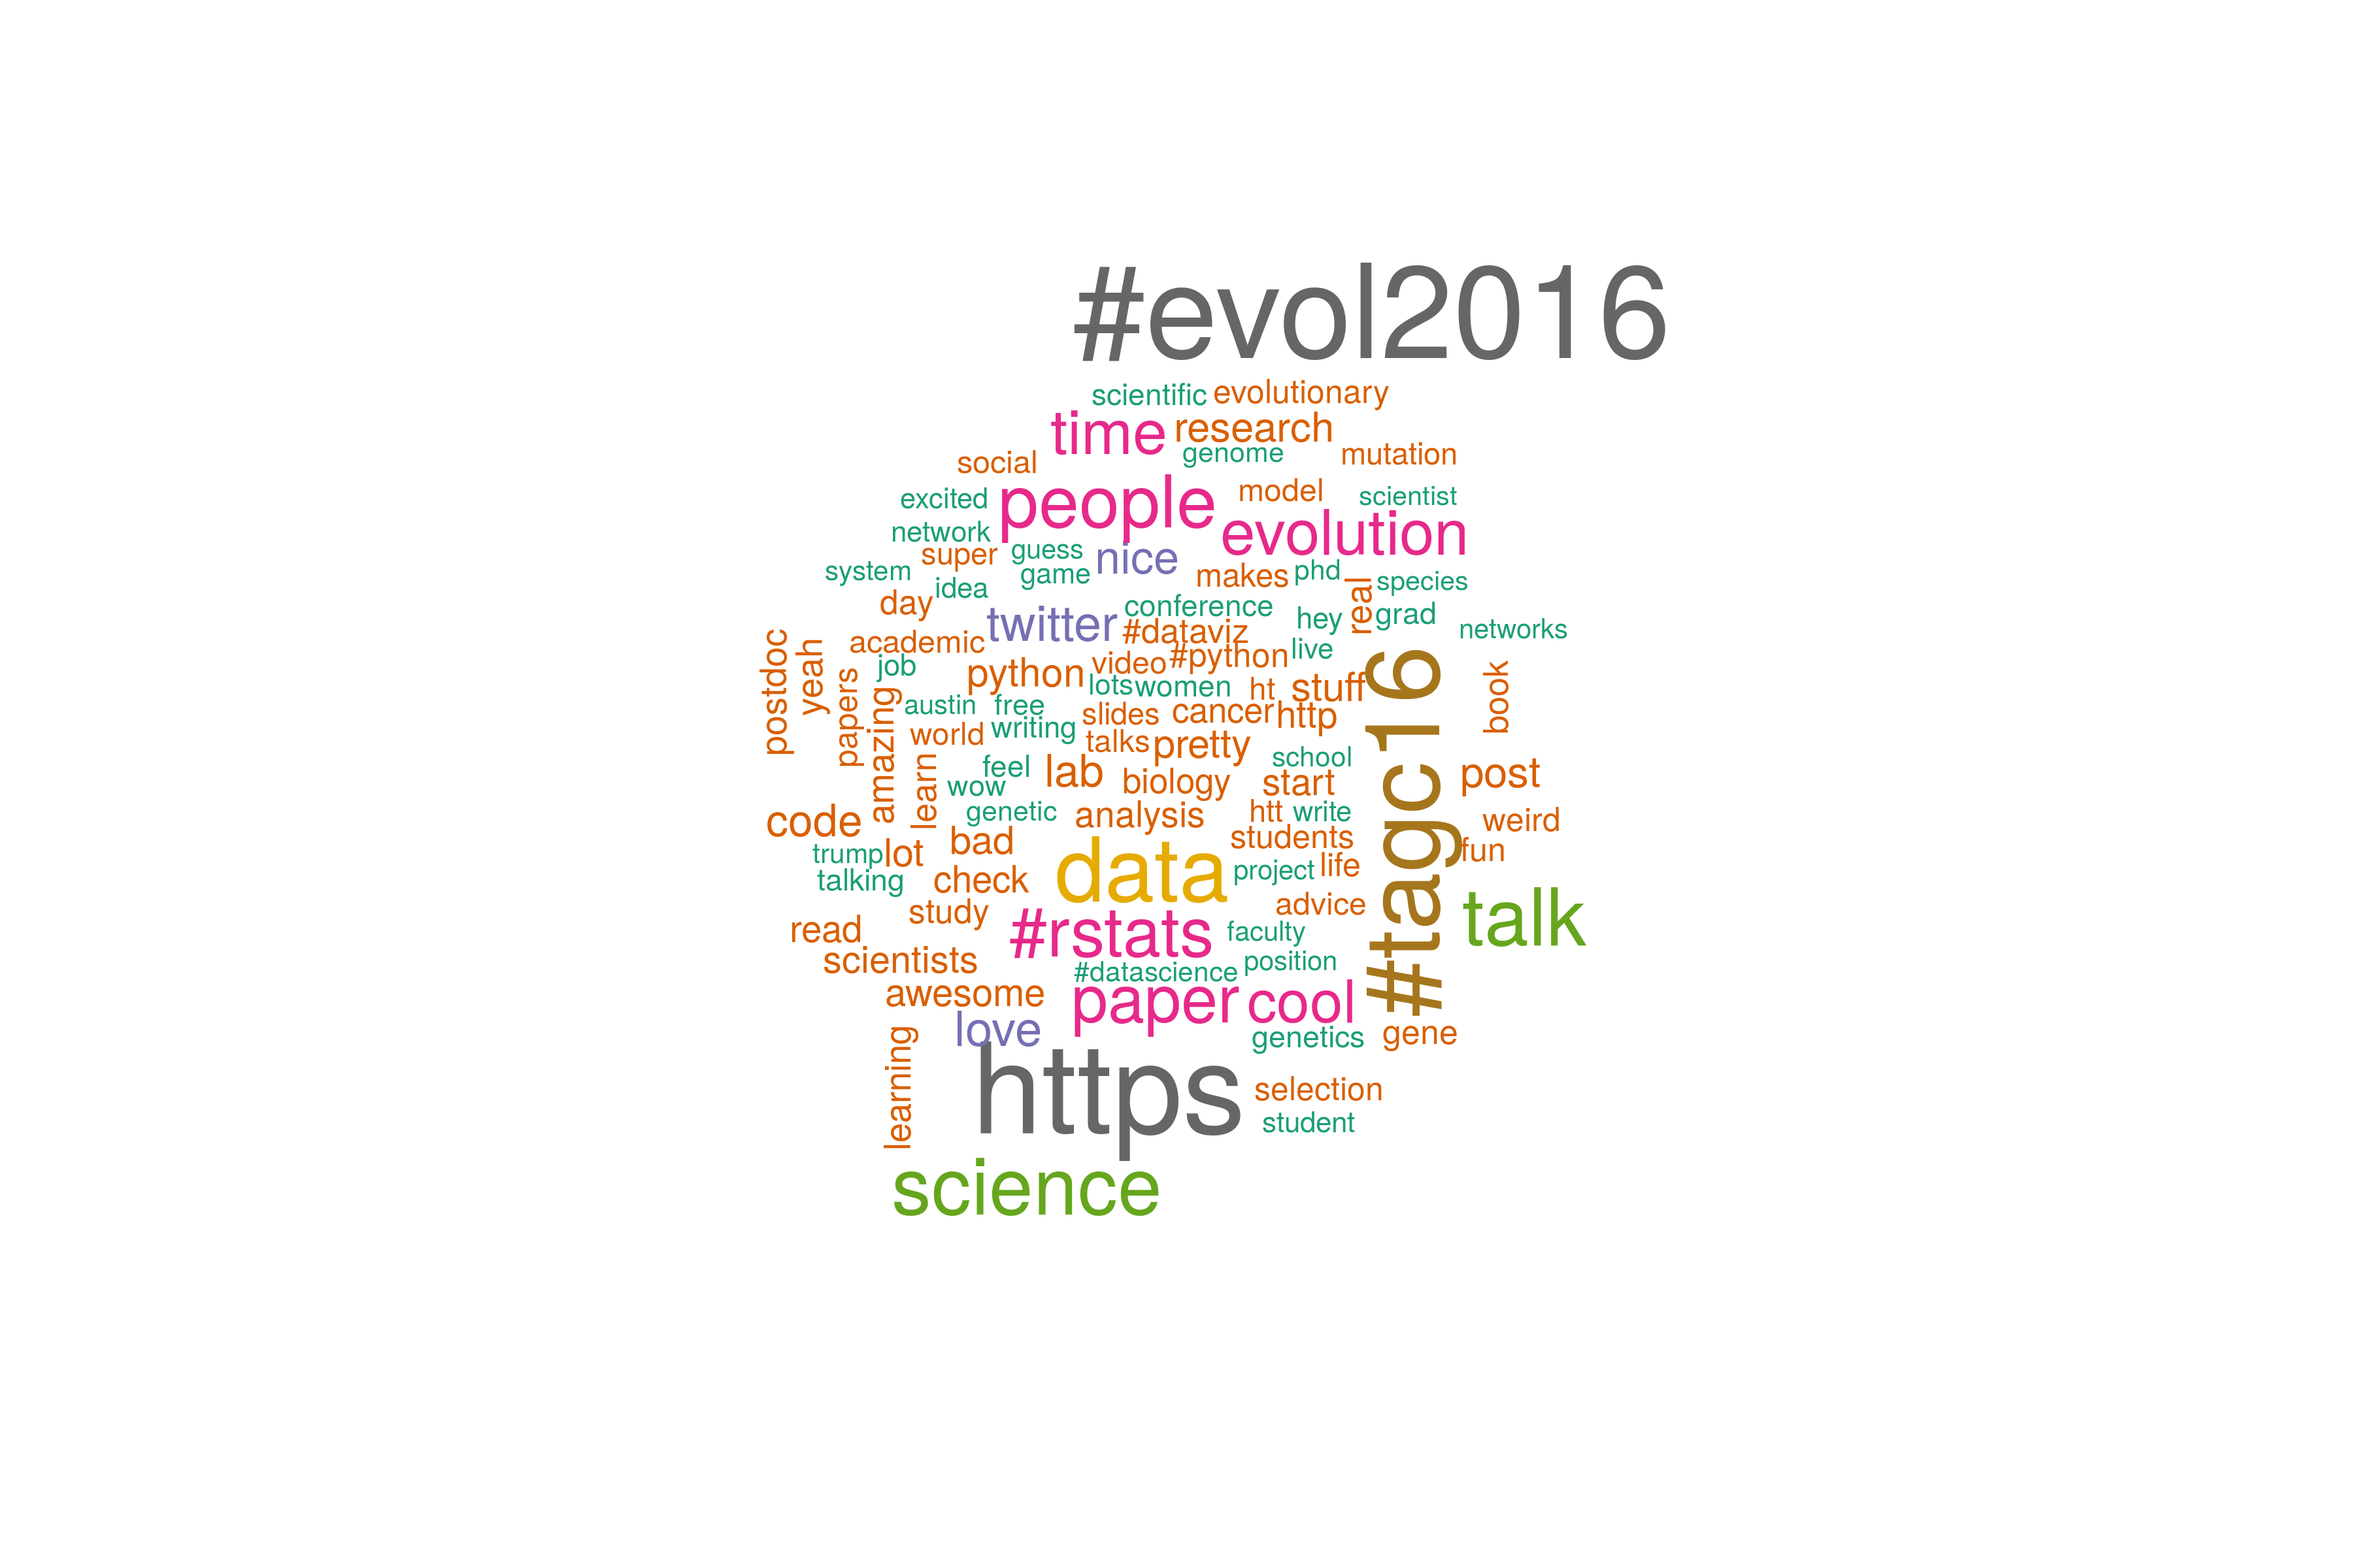
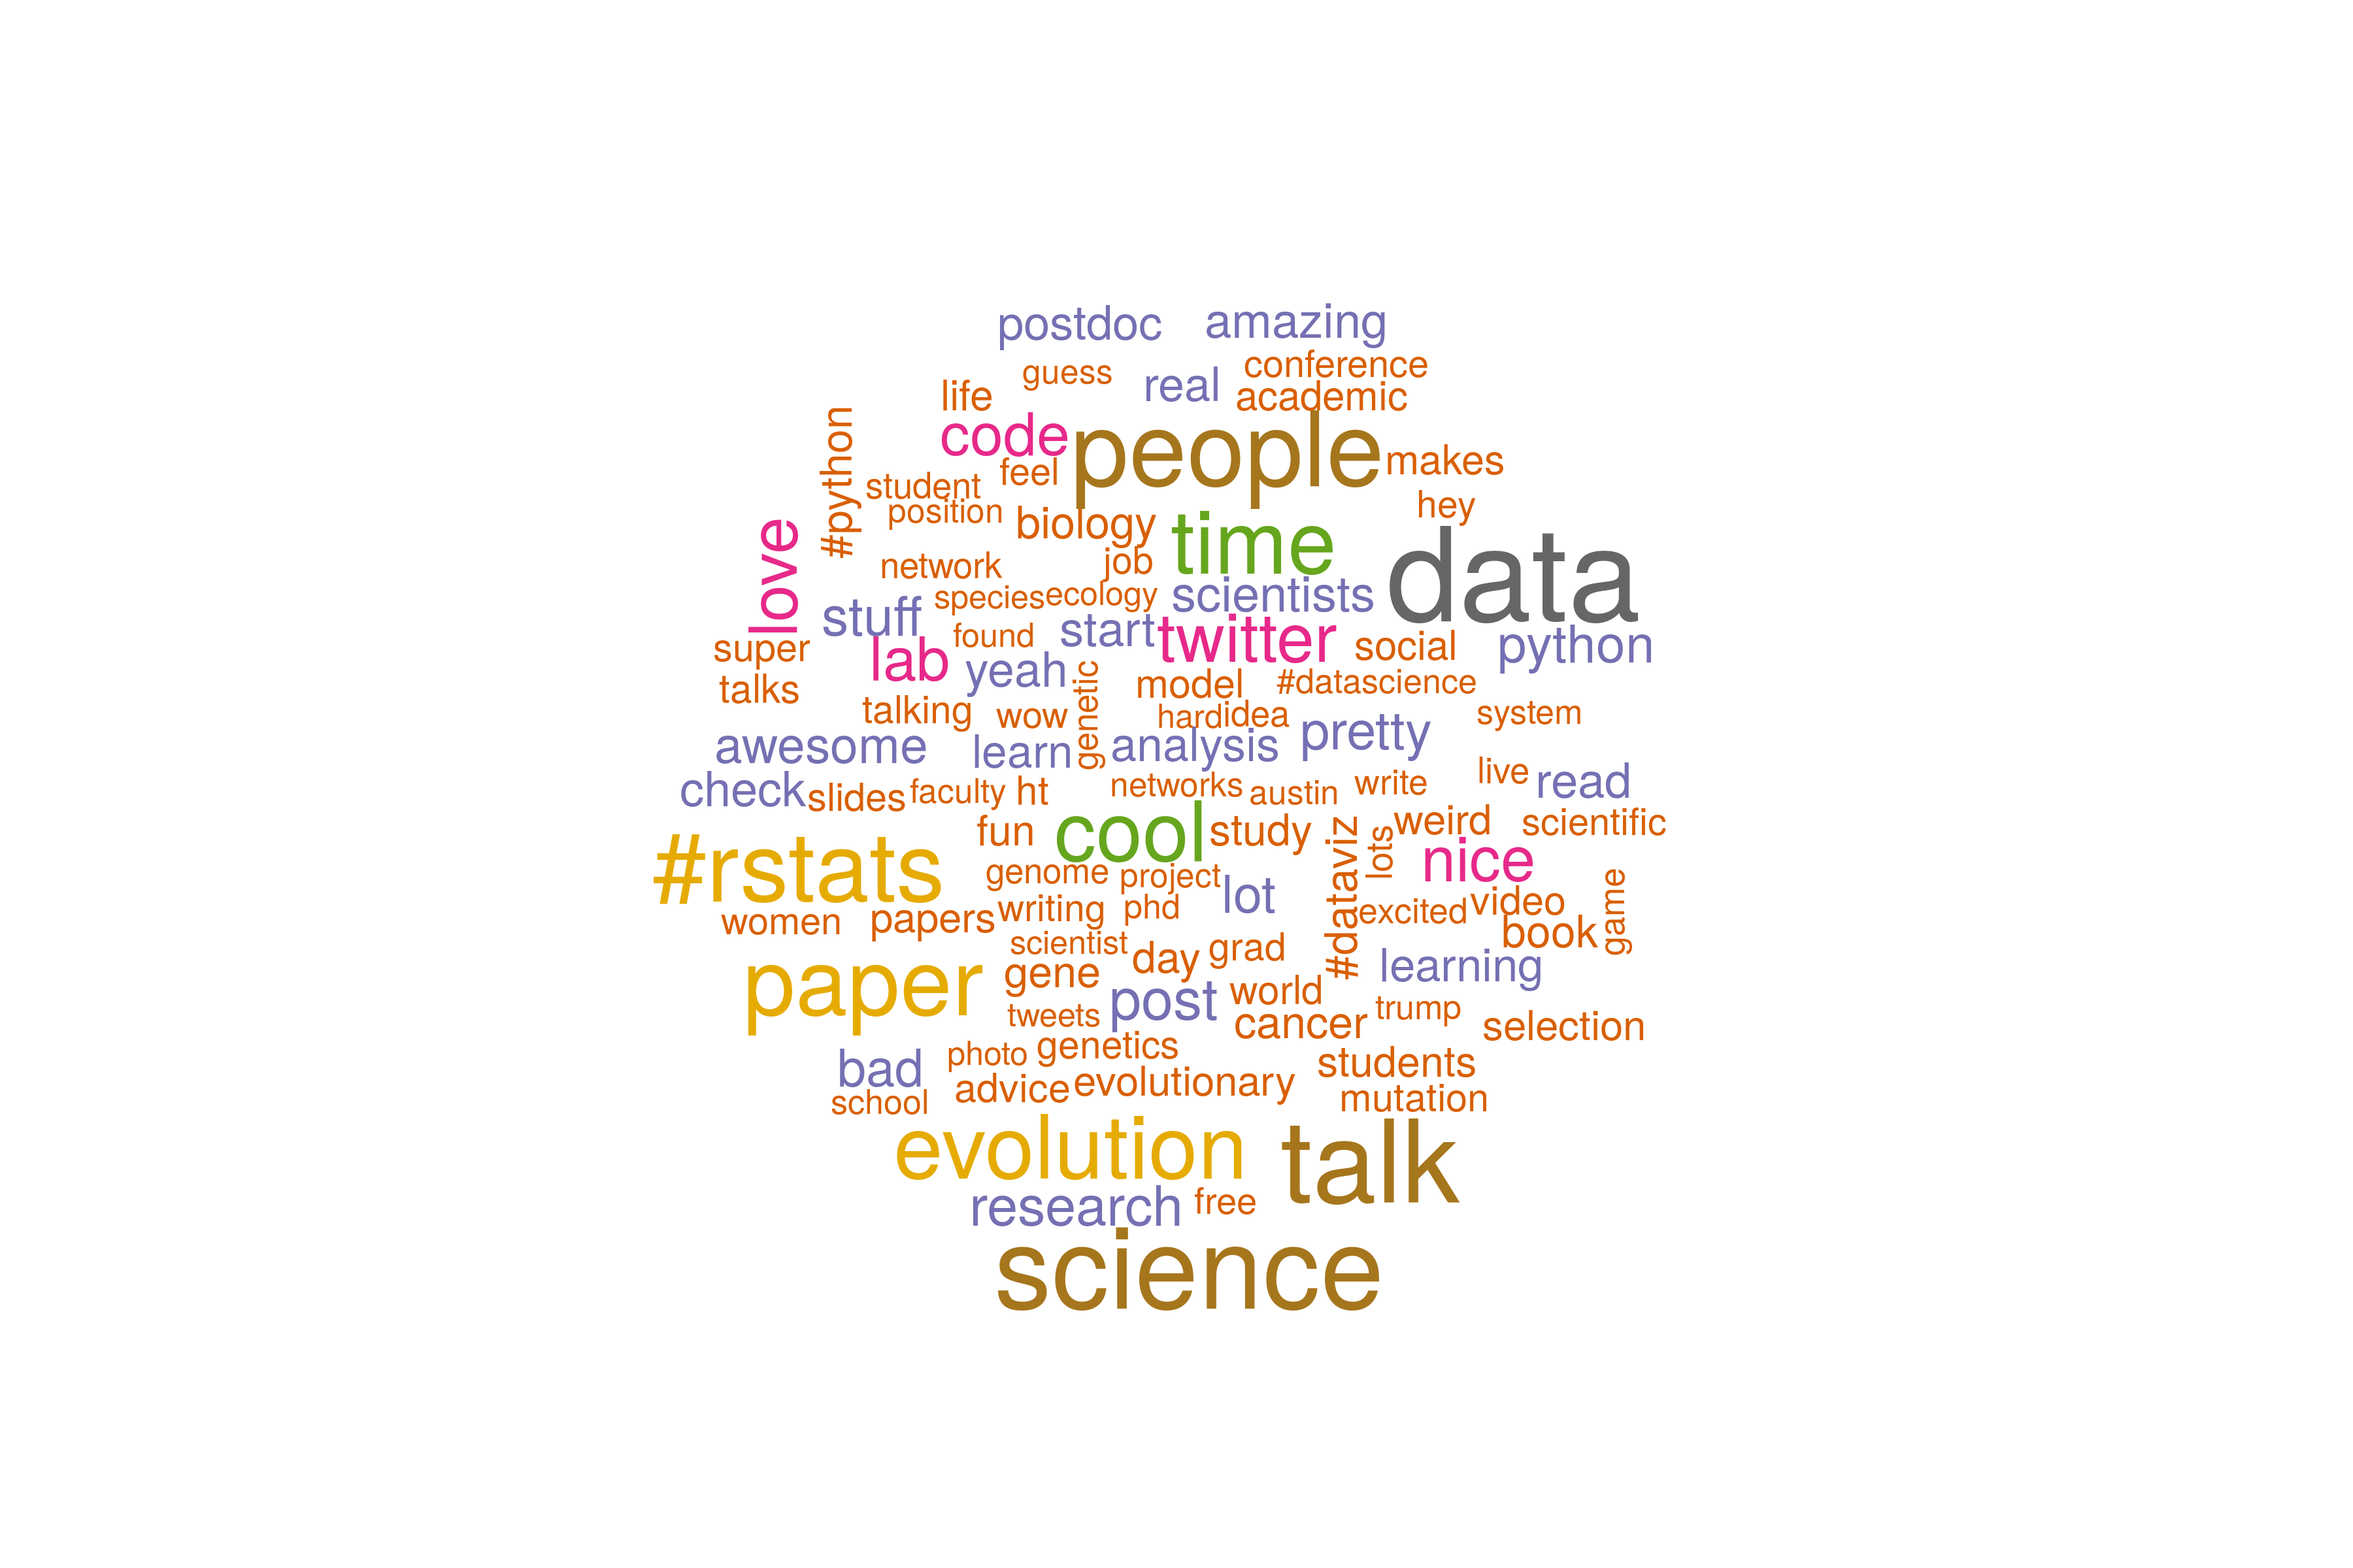
post on hedonometer & selfcare

Changed region(s): [[0.28, 0.1562, 0.7156, 0.8438]]

diff --git a/_posts/articles/2016-11-14-post-election-hedonometer-selfcare.md b/_posts/articles/2016-11-14-post-election-hedonometer-selfcare.md
@@ -111,9 +111,11 @@ frequency
 
 Here in the ball of words below, you'll see some of my interests over the last year. One important, actually HUGE caveat is that I haven't separated out retweets from my own tweets in this analysis. In part that's because I'm not a very vocal tweeter still, I tend towards finding interesting accounts and retweeting stuff I find interesting. Definitely something to look back on the reduced, smaller dataset of just my own tweets, few as they are.
 
-![image](http://thomas-keller.github.io/images/tek_twitter_words.png)
+<img src="https://thomas-keller.github.io/images/tek_twitter_words.png" width="800">
 
-The big hashtags #Evol2016 and #TGCA2016 refer to the two big biology conferences that I went to this year. I met some great people, and saw a bunch of old friends. Evolution was especially great, with it being in Austin and all.
+The big hashtags ~~#Evol2016 and #TGCA2016~~ refer to the two big biology conferences that I went to this year (actually I deleted these because they were too big and throwing things off). I met some great people, and saw a bunch of old friends. Evolution was especially great, with it being in Austin and all. The adjusted wordcloud now has seasonally appropriate fall coloring, as an unintentional bonus.
+
+The parsing and regex (notably the str_replace_all) didn't quite work as planned, there's still some https and and htt hanging around. Probably the thing to do is a bind_row and then an filter with the extra stop words appended.
 
 # Tracking emotion with the Hedonometer
 
@@ -168,7 +170,7 @@ ggsave(file=filename,width=7,height=7,dpi=100)
 
 ![image](http://thomas-keller.github.io/images/tek_hedonometer_2016.png)
 
-As you can see, there has been a gradual, slight decline in positivity at the beginning of the year towards some kind of middle ground of ~0.7 around May with some bumps (conferences) in the summer, with an increase in September and then a sharper decrease in November. I won't overanalyze myself, but that fits with about how my year has gone. I've been trying to figure out where I want to go after I finished my postdoc last December, and have yet to have a permanent full time job lined up. For awhile I thought I'd go into the private sector but that seems like that might not be the best fit for me, so in September I was fortunate enough to have the oportunity to come back up to Atlanta to work with my advisor Dr. Yi to do some machine learning on some biological datasets (hopefully an upcoming post; I need to get back to blogging). That matches with the uptick in mood, it was really nice to be back in an office environment after applying for a bunch of jobs without luck (I suppose I was too restrictive in trying to stay near parents in Tampa).
+As you can see, there has been a gradual, slight decline in positivity at the beginning of the year towards some kind of middle ground of ~0.7 around May with some bumps (conferences) in the summer, with an increase in September and then a sharper decrease in November. I won't overanalyze myself, but that fits with about how my year has gone. I've been trying to figure out where I want to go after I finished my postdoc last December, and have yet to have a permanent full time job lined up. For awhile I thought I'd go into the private sector but that seems like that might not be the best fit for me, so in September I was fortunate enough to have the opportunity to come back up to Atlanta to work with my advisor Dr. Yi to do some machine learning on some biological datasets (hopefully an upcoming post; I need to get back to blogging). That matches with the uptick in mood, it was really nice to be back in an office environment after applying for a bunch of jobs without luck (I suppose I was too restrictive in trying to stay near parents in Tampa).
 
 # The Election Event
 
